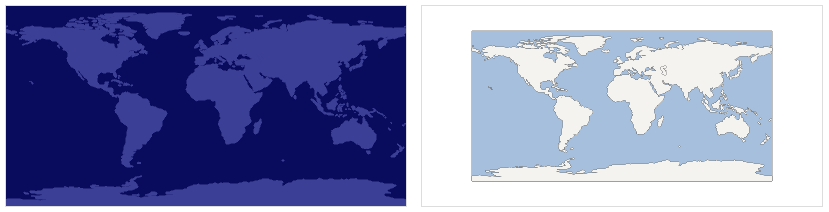
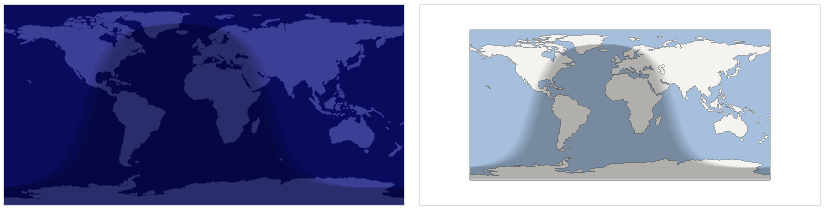
Add day night curve

diff --git a/worldMap.js b/worldMap.js
@@ -1,3 +1,4 @@
+
 var Map = function() {
   var lands = [];
 
@@ -5696,6 +5697,110 @@ var Map = function() {
     context.fill();
   };
 
+
+
+  this.dayOfYear = function(day) {
+    var dayOne = new Date(day.getFullYear(), 0, 1);
+    return Math.ceil((day.getTime() - dayOne.getTime()) / (24 * 60 * 60 * 1000));
+  };
+
+  this.hourOfDay = function(day) {
+    return day.getUTCHours() + (day.getUTCMinutes() * 60 + day.getUTCSeconds()) / (60 * 60);
+  };
+
+  this.nightLength = function(doy, lat) {
+    // Ref: http://mathforum.org/library/drmath/view/56478.html
+
+    var P1 = .961396 * Math.tan(.00860 * (doy - 186))
+      , P = Math.asin(.39795 * Math.cos(.2163108 + 2 * Math.atan(P1)))
+      , D1 = Math.sin(0.833 * Math.PI / 180) + Math.sin(lat * Math.PI / 180) * Math.sin(P)
+      , D2 = Math.cos(lat * Math.PI / 180) * Math.cos(P)
+      , D = 24 - (24 / Math.PI) * Math.acos(D1 / D2)
+      , N = (24 / Math.PI) * Math.acos(D1 / D2);
+
+    return Math.acos(D1 / D2) / Math.PI;
+  };
+
+  this.drawNightLine = function(context, x1, x2, y, w100p) {
+    var maxOpacity = 0.3;
+
+    if (w100p || x2 - x1 <= 24) {
+      this.line(context, x1, x2, y, 'rgba(0, 0, 0, ' + maxOpacity + ')');
+    } else if (x2 - x1 > 20) {
+      var glen = Math.min(20, Math.floor((x2 - x1) / 10));
+      this.drawGradientLine(context, x1, x2, y, glen, maxOpacity);
+    }
+  };
+
+  this.drawGradientLine = function(context, x1, x2, y, glen, opacity) {
+    var grad = context.createLinearGradient(x1, y, x1 + glen, y);
+    grad.addColorStop(0, 'rgba(0, 0, 0, 0)');
+    grad.addColorStop(1, 'rgba(0, 0, 0, ' + opacity + ')');
+    this.line(context, x1, x1 + glen, y, grad);
+
+    this.line(context, x1 + glen, x2 - glen, y, 'rgba(0, 0, 0, ' + opacity + ')');
+
+    grad = context.createLinearGradient(x2 - glen, y, x2, y);
+    grad.addColorStop(0, 'rgba(0, 0, 0, ' + opacity + ')');
+    grad.addColorStop(1, 'rgba(0, 0, 0, 0)');
+    this.line(context, x2 - glen, x2, y, grad);
+  };
+
+  this.line = function(context, x1, x2, y, style) {
+    context.strokeStyle = style;
+    context.beginPath();
+    context.moveTo(x1, y);
+    context.lineTo(x2, y);
+    context.closePath();
+    context.stroke();
+  };
+
+  this.drawDayNight = function(context, mapArea) {
+    var canvas = context.canvas
+      , w = mapArea.width
+      , today = new Date()
+      , doy = this.dayOfYear(today)
+      , hod = this.hourOfDay(today)
+      , offset1 = - Math.floor(hod * w / 24) + mapArea.x
+      , offset2 = w + offset1;
+
+    context.save();
+    context.beginPath();
+    context.rect(mapArea.x, mapArea.y, mapArea.width, mapArea.height);
+    context.clip();
+
+    context.globalCompositeOperation = 'darker';
+
+    this.drawNight(context, doy, offset1, mapArea);
+    this.drawNight(context, doy, offset2, mapArea);
+
+    context.restore();
+  };
+
+  this.drawNight = function(context, doy, offset, mapArea) {
+    var canvas = context.canvas
+      , w = mapArea.width
+      , h = mapArea.height
+      , halfW = w / 2
+      , halfH = h / 2;
+
+    for (var i = 0; i < mapArea.height; i ++) {
+      var lat = 90 - (i * 180 / mapArea.height)
+        , nl = this.nightLength(doy, lat);
+
+      if (isNaN(nl)) {
+        if ((doy < 79 || doy > 268) && i < halfH) {
+          this.drawNightLine(context, offset, halfW * 2 + offset, i + mapArea.y, true);
+        } else if ((doy > 80 && doy < 267) && i > halfH) {
+          this.drawNightLine(context, offset, halfW * 2 + offset, i + mapArea.y, true);
+        }
+      } else {
+        var half = nl * w / 2;
+        this.drawNightLine(context, (halfW - half) + offset, (halfW + half) + offset, i + mapArea.y);
+      }
+    }
+  };
+
   /**
   * options: { mapArea: { x: _, y: _, width: _, height: _ }
   *          , style: { background: { stroke: 'stroke style', fill: 'fill style' }
@@ -5720,6 +5825,8 @@ var Map = function() {
       var land = lands[i];
       if (land.length) { this.drawLand(context, land, landStyle, mapArea); }
     }
+
+    this.drawDayNight(context, mapArea);
 
     if (callback) { callback(); }
   };
